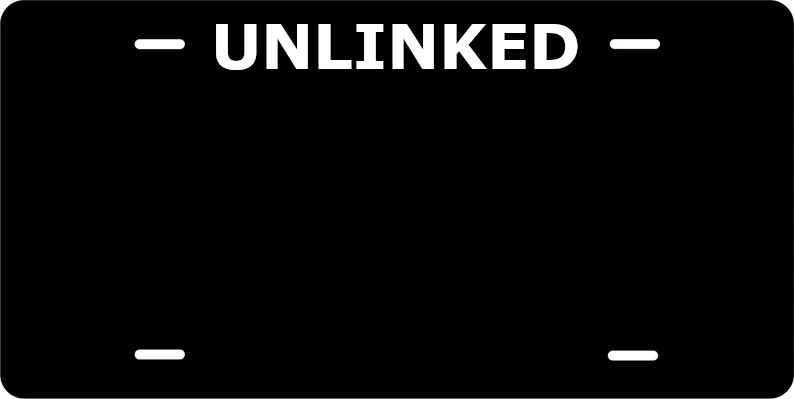
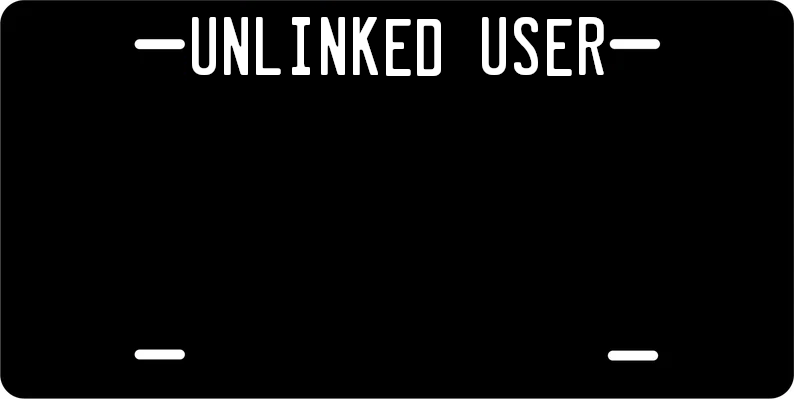
migrate friends+search to plate-based

Changed region(s): [[0.2418, 0.0301, 0.7859, 0.2105]]

diff --git a/bumper/screens/Profile.js b/bumper/screens/Profile.js
@@ -127,7 +127,7 @@ const NewAppModal = (props) => {
 export default function ProfileScreen ( {navigation, route} ) {
   const [name, setName] = useState("")
   const [userId, setUserId] = useState(null)
-  const [plate, setPlate] = useState("");
+  const [plate, setPlate] = useState({linked:false, plate:""});
   const [modalVisible, setModalVisible] = useState(false);
   const [connectedApps, setConnectedApps] = useState([]);
   const [isOwnProfile, setIsOwnProfile] = useState(false);
@@ -146,10 +146,10 @@ export default function ProfileScreen ( {navigation, route} ) {
         navigation.setOptions({title:"My Profile"})
         route.params.name = signedInUser;
         let user = await getUser(route.params.id);
-        setPlate(user.plate)
+        setPlate({linked:user.linked,plate:user.plate})
       } else {
         let user = await getUser(route.params.id);
-        setPlate(user.plate)
+        setPlate({linked:user.linked,plate:user.plate})
         route.params.name = user.name;
         navigation.setOptions({title:`${route.params.name}'s Profile`})
         navigation.setOptions({
@@ -175,7 +175,7 @@ export default function ProfileScreen ( {navigation, route} ) {
       
       {modalVisible? <NewAppModal modalVisible={modalVisible} setModalVisible={setModalVisible} forceReload={forceReload} reload={reload}/> : null}
 
-        <LicensePlate width={dimensions.width} plate={plate}/>
+        <LicensePlate width={dimensions.width} plate={plate.plate} state={plate.linked ? "oregon" : "unlinked"}/>
         <Text style={[styles.bigText, {textAlign:"left", marginTop: 10, marginBottom: 0, marginLeft:40, width:"100%"}]}>{name}</Text>
       <Text style={[styles.bigText, {marginVertical: 20}]}>{isOwnProfile? "My" : `${name}'s`} Connections</Text>
 

diff --git a/bumper/screens/Friends.js b/bumper/screens/Friends.js
@@ -5,6 +5,7 @@ import { getFriend, friendSearch} from '../util/requests';
 import { getData } from '../util/storage'
 
 import { ScrollView } from 'react-native-gesture-handler';
+import { LicensePlate } from '../util/components';
 
 
 const SearchBar = (props) => {
@@ -56,7 +57,9 @@ export default function FriendScreen ( {navigation} ) {
         
         <View style={{flexDirection: 'column', justifyContent: 'flex-start', flex:1}}>
           <ScrollView style={{width: "100%"}}>
-            {SearchFriends.map((user) => <TouchableOpacity style={styles.friendList} key={user.id} onPress={() => navigation.navigate("Profile", {id:user.id})}><Text style={styles.friend}>{user.username}</Text></TouchableOpacity>)}
+            {SearchFriends.map((user) => <TouchableOpacity style={styles.userList} key={user.id} onPress={() => navigation.navigate("Profile", {id:user.id})}>
+            <LicensePlate width={80} plate={user.plate} state={user.linked ? "oregon" : "unlinked"} style={{marginRight:20}}/><Text style={styles.user}>{user.name}</Text>
+            </TouchableOpacity>)}
           </ScrollView>
         </View>
       ):(
@@ -114,15 +117,21 @@ const styles = StyleSheet.create({
     marginRight:10,
     justifyContent:'center'
   },
-
-  friend: {
+  
+  userList: {
+    marginVertical:5,
     width: '100%',
-    fontSize: 20,
-    fontWeight: 'bold',
-    padding:10,
+    padding:5,
     paddingLeft:20,
     backgroundColor: '#FFDADA',
     borderBottomColor: 'black',
-    borderRadius: 10
+    borderRadius: 10,
+    flexDirection:'row',
+    alignItems:'center'
+  },
+
+  user: {
+    fontSize: 20,
+    fontWeight: 'bold',
   }
 })

diff --git a/bumper/util/components.js b/bumper/util/components.js
@@ -1,6 +1,17 @@
 import { ImageBackground, Text, View } from "react-native";
 import { useFonts } from "expo-font"
 
+function getPlate(state) {
+  switch (state) {
+    case "oregon":
+      return require("../assets/plates/oregon.png")
+    case "california":
+      return require("../assets/plates/california.png")
+    case "unlinked":
+      return require("../assets/plates/unlinked.png")
+  }
+}
+
 export const LicensePlate = (props) => {
   let plate = props.plate;
   if (plate.length == 6) {
@@ -24,8 +35,8 @@ export const LicensePlate = (props) => {
       backgroundColor: 'pink',
       marginVertical: -(150-props.width/4),
       marginHorizontal: -(300-props.width/2),
-      transform: [{scale:props.width/600}]}} source={require("../assets/plates/oregon.jpg")}>
-      <Text style={{fontSize:170, fontFamily:"LicensePlate", textShadowColor:"white", textShadowRadius:20, paddingVertical:10}}>{plate}</Text>
+      transform: [{scale:props.width/600}]}} source={getPlate(props.state)}>
+      <Text style={{fontSize:170, fontFamily:"LicensePlate", color:props.state=="oregon"?"black":"white", textShadowColor:props.state=="oregon"?"white":"black", textShadowRadius:20, paddingVertical:10}}>{plate}</Text>
     </ImageBackground>
     </View>
   )

diff --git a/bumper/screens/PlateLookup.js b/bumper/screens/PlateLookup.js
@@ -50,7 +50,7 @@ export default function PlateLookupScreen ({ navigation }) {
       <View style={{flexDirection: 'column', justifyContent: 'flex-start', flex:1}}>
         <ScrollView style={{width: "100%"}}>
           {SearchUsers.map((user) => <TouchableOpacity style={styles.userList} key={user.id} onPress={() => navigation.navigate("Profile", {id:user.id})}>
-            <LicensePlate width={80} plate={user.plate} style={{marginRight:20}}/><Text style={styles.user}>{user.name}</Text>
+            <LicensePlate width={80} plate={user.plate} state={user.linked ? "oregon" : "unlinked"} style={{marginRight:20}}/><Text style={styles.user}>{user.name}</Text>
             </TouchableOpacity>)}
         </ScrollView>
       </View>

diff --git a/bumper/screens/SignIn.js b/bumper/screens/SignIn.js
@@ -35,7 +35,7 @@ export default function SignInScreen ({ navigation }) {
           try {
             const [name, id] = await signIn(email, password);
             console.log(name, id)
-            await storeData("name", name.toString());
+            await storeData("name", name ? name.toString() : "");
             await storeData("user_id", id.toString());
             Alert.alert("Sign in was successful!");
             navigation.navigate('TabPages');

diff --git a/server/app/friends/routes.py b/server/app/friends/routes.py
@@ -19,7 +19,7 @@ def addfriend():
     if not friend_id or not friend:
         return UnprocessableEntity("You must specify a valid friend_id.")
     for i in current_user.friends: # makes sure there are no duplicate friends
-        if i.username == friend.username:
+        if i.id == friend.id:
             raise Conflict('They are already your friend.')
 
     current_user.friends.append(friend)
@@ -37,17 +37,16 @@ def getfriends():
     print("user id: ", user_id)
 
     user_friends = User.query.filter_by(id=user_id).first().friends
-    friends = [{'username':friend.username, 'password':friend.password, 'email':friend.email, 'created':friend.created, 'bio':friend.bio, 'admin':friend.admin} for friend in user_friends]
+    friends = [{'plate':friend.plate, 'linked':friend.linked, 'name':friend.name, 'password':friend.password, 'email':friend.email, 'created':friend.created, 'bio':friend.bio, 'admin':friend.admin} for friend in user_friends]
 
     return friends
 
 @friends_bp.route('/friends/search', methods=['GET'])
 def searchfriends():
     args = request.args
-    userN = args.get('search')
-    search = '%{}%'.format(userN)
+    query = args.get('search')
 
     user_friends = current_user.friends
-    friends = [friend for friend in user_friends if re.match(userN, friend.username,  re.IGNORECASE)]
-    friend_list = [{'username':friend.username, 'password':friend.password, 'email':friend.email, 'created':friend.created, 'bio':friend.bio, 'admin':friend.admin, 'id':friend.id} for friend in friends]
+    friends = [friend for friend in user_friends if re.match(query, str(friend.name),  re.IGNORECASE) or re.match(query, friend.plate,  re.IGNORECASE)]
+    friend_list = [{'plate':friend.plate, 'linked':friend.linked, 'name':friend.name, 'password':friend.password, 'email':friend.email, 'created':friend.created, 'bio':friend.bio, 'admin':friend.admin, 'id':friend.id} for friend in friends]
     return friend_list

diff --git a/server/app/users/routes.py b/server/app/users/routes.py
@@ -21,7 +21,7 @@ def getuser():
     user = User.query.filter_by(id=user_id).first()
     if not user:
         raise NotFound("User not found")
-    return {'plate':user.plate, 'name':user.name, 'password':user.password, 'email':user.email, 'created':user.created, 'bio':user.bio, 'admin':user.admin}
+    return {'plate':user.plate, 'linked':user.linked, 'name':user.name, 'password':user.password, 'email':user.email, 'created':user.created, 'bio':user.bio, 'admin':user.admin}
 
 @users_bp.route('/users/search', methods=['GET'])
 def usersearch():
@@ -33,7 +33,7 @@ def usersearch():
         search = '%{}%'.format(userN)
 
     users = User.query.filter(User.plate.like(search)).all()
-    user_list = [{'id':user.id, 'plate':user.plate, 'name':user.name, 'password':user.password, 'email':user.email, 'created':user.created, 'bio':user.bio, 'admin':user.admin} for user in users]
+    user_list = [{'id':user.id, 'plate':user.plate, 'linked':user.linked, 'name':user.name, 'password':user.password, 'email':user.email, 'created':user.created, 'bio':user.bio, 'admin':user.admin} for user in users]
     print(user_list)
     return user_list
 

diff --git a/server/migrations/versions/fba89224a545_add_linked_boolean_to_user.py b/server/migrations/versions/fba89224a545_add_linked_boolean_to_user.py
@@ -1,0 +1,32 @@
+"""add linked boolean to user
+
+Revision ID: fba89224a545
+Revises: b2efc795308a
+Create Date: 2022-11-28 08:48:14.103401
+
+"""
+from alembic import op
+import sqlalchemy as sa
+
+
+# revision identifiers, used by Alembic.
+revision = 'fba89224a545'
+down_revision = 'b2efc795308a'
+branch_labels = None
+depends_on = None
+
+
+def upgrade():
+    # ### commands auto generated by Alembic - please adjust! ###
+    with op.batch_alter_table('user', schema=None) as batch_op:
+        batch_op.add_column(sa.Column('linked', sa.Boolean(), nullable=True))
+
+    # ### end Alembic commands ###
+
+
+def downgrade():
+    # ### commands auto generated by Alembic - please adjust! ###
+    with op.batch_alter_table('user', schema=None) as batch_op:
+        batch_op.drop_column('linked')
+
+    # ### end Alembic commands ###

diff --git a/server/app/auth/routes.py b/server/app/auth/routes.py
@@ -22,16 +22,22 @@ def signup():
 
     if User.query.filter_by(email=email).first():
         raise Conflict("Email is already registered.")
-    
+
     new_user = User(
         email=email,
+        plate=email,
         password=generate_password_hash(password, method='sha256'),
         created=dt.now(),
         bio="Default Bio",
-        admin=False
+        admin=False,
+        linked=False
     )
     db.session.add(new_user)  # Adds new User record to database
     db.session.commit()  # Commits all changes
+    user = User.query.filter_by(email=email).first()  # Get user again
+    user.plate = f"---{user.id:03d}"
+    db.session.add(user)
+    db.session.commit()
     return "", 201
 
 @auth_bp.route('/signin', methods=['POST'])

diff --git a/server/app/models.py b/server/app/models.py
@@ -14,6 +14,7 @@ friend_request = db.Table('friend_request',
 
 class User(UserMixin, db.Model):
     id = db.Column(db.Integer, primary_key=True)
+    linked = db.Column(db.Boolean)
     plate = db.Column(db.String(10), unique=True, nullable=False, server_default="ABC123")
     name = db.Column(db.String(80), unique=False, nullable=True)
     password = db.Column(db.String(100))
